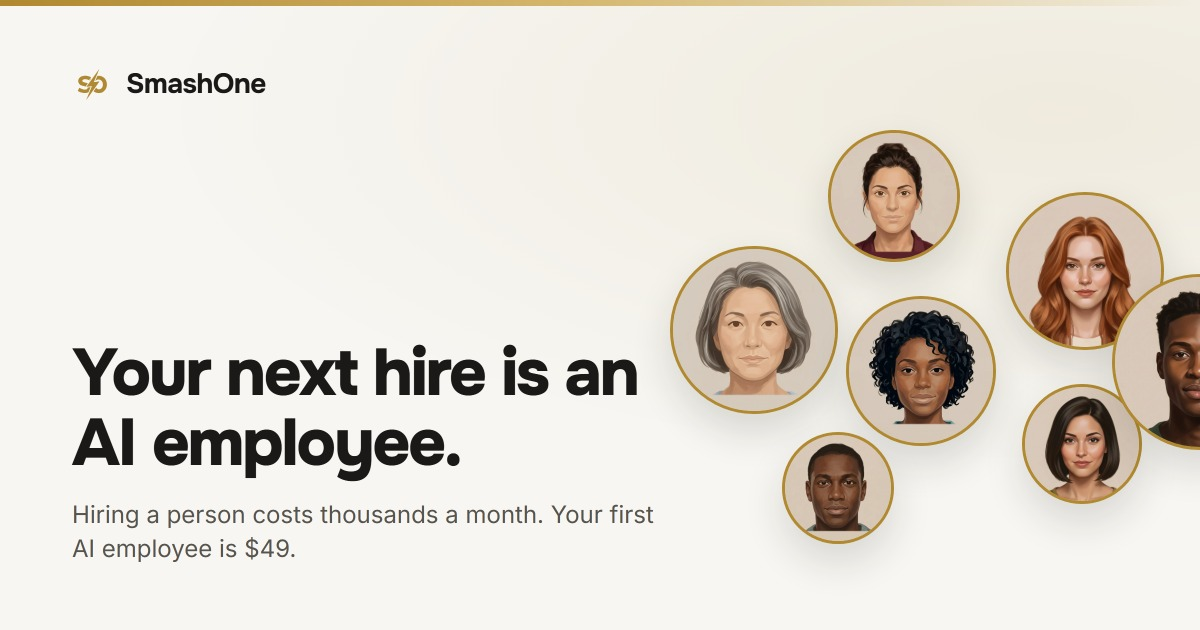
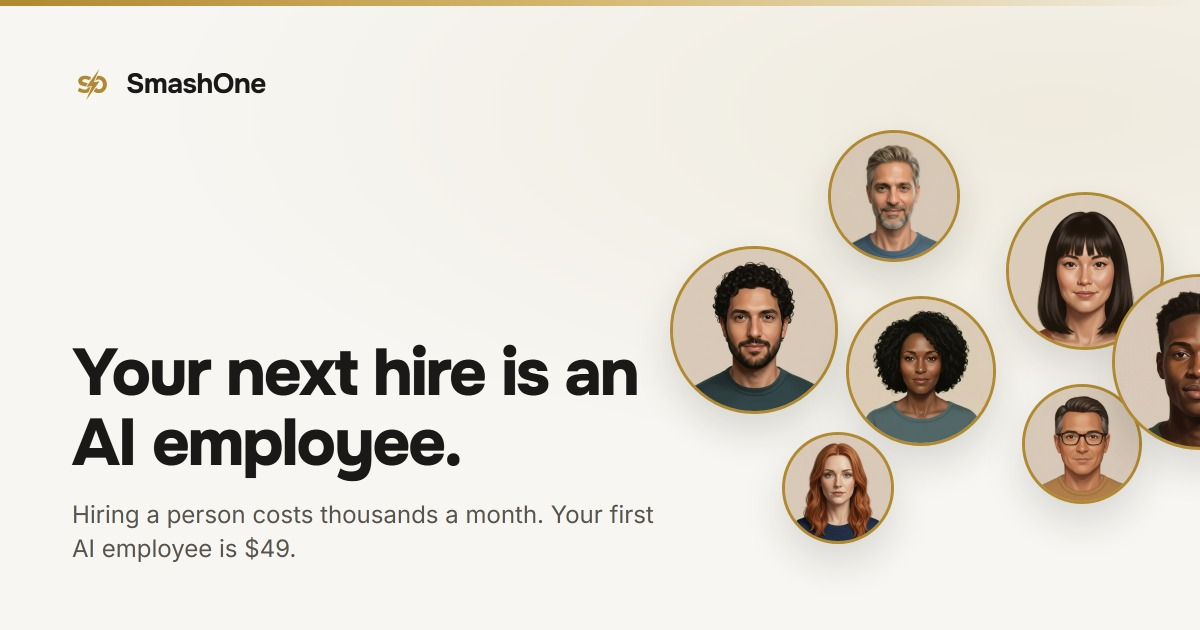
og: shared share cards (og-home, og-team, og-share-1200x630) show today's role faces
Same bytes as the site cards rendered by web/scripts/og/render-og.mjs; every face in the row = current roster file byte for byte; text area 0 changed px. Appointment Coordinator = today's file (changes after the owner's word on Rene). SHA256SUMS + README rows updated. GA approval 12.09 03:1x.

Claude-Session: https://claude.ai/code/session_01ASc1pGMoWc3E4qqxbq6TAY

diff --git a/og/README.md b/og/README.md
@@ -26,7 +26,7 @@
 cd og && sha256sum -c SHA256SUMS.txt
 ```
 
-## Опись — 29 карточек, 2027152 байт (1979.6 КБ)
+## Опись — 29 карточек, 2012541 байт (1965.4 КБ)
 
 | файл | пиксели | байт | sha256 |
 |---|---|---|---|
@@ -43,12 +43,12 @@ cd og && sha256sum -c SHA256SUMS.txt
[15 lines of base64/hex data omitted]
